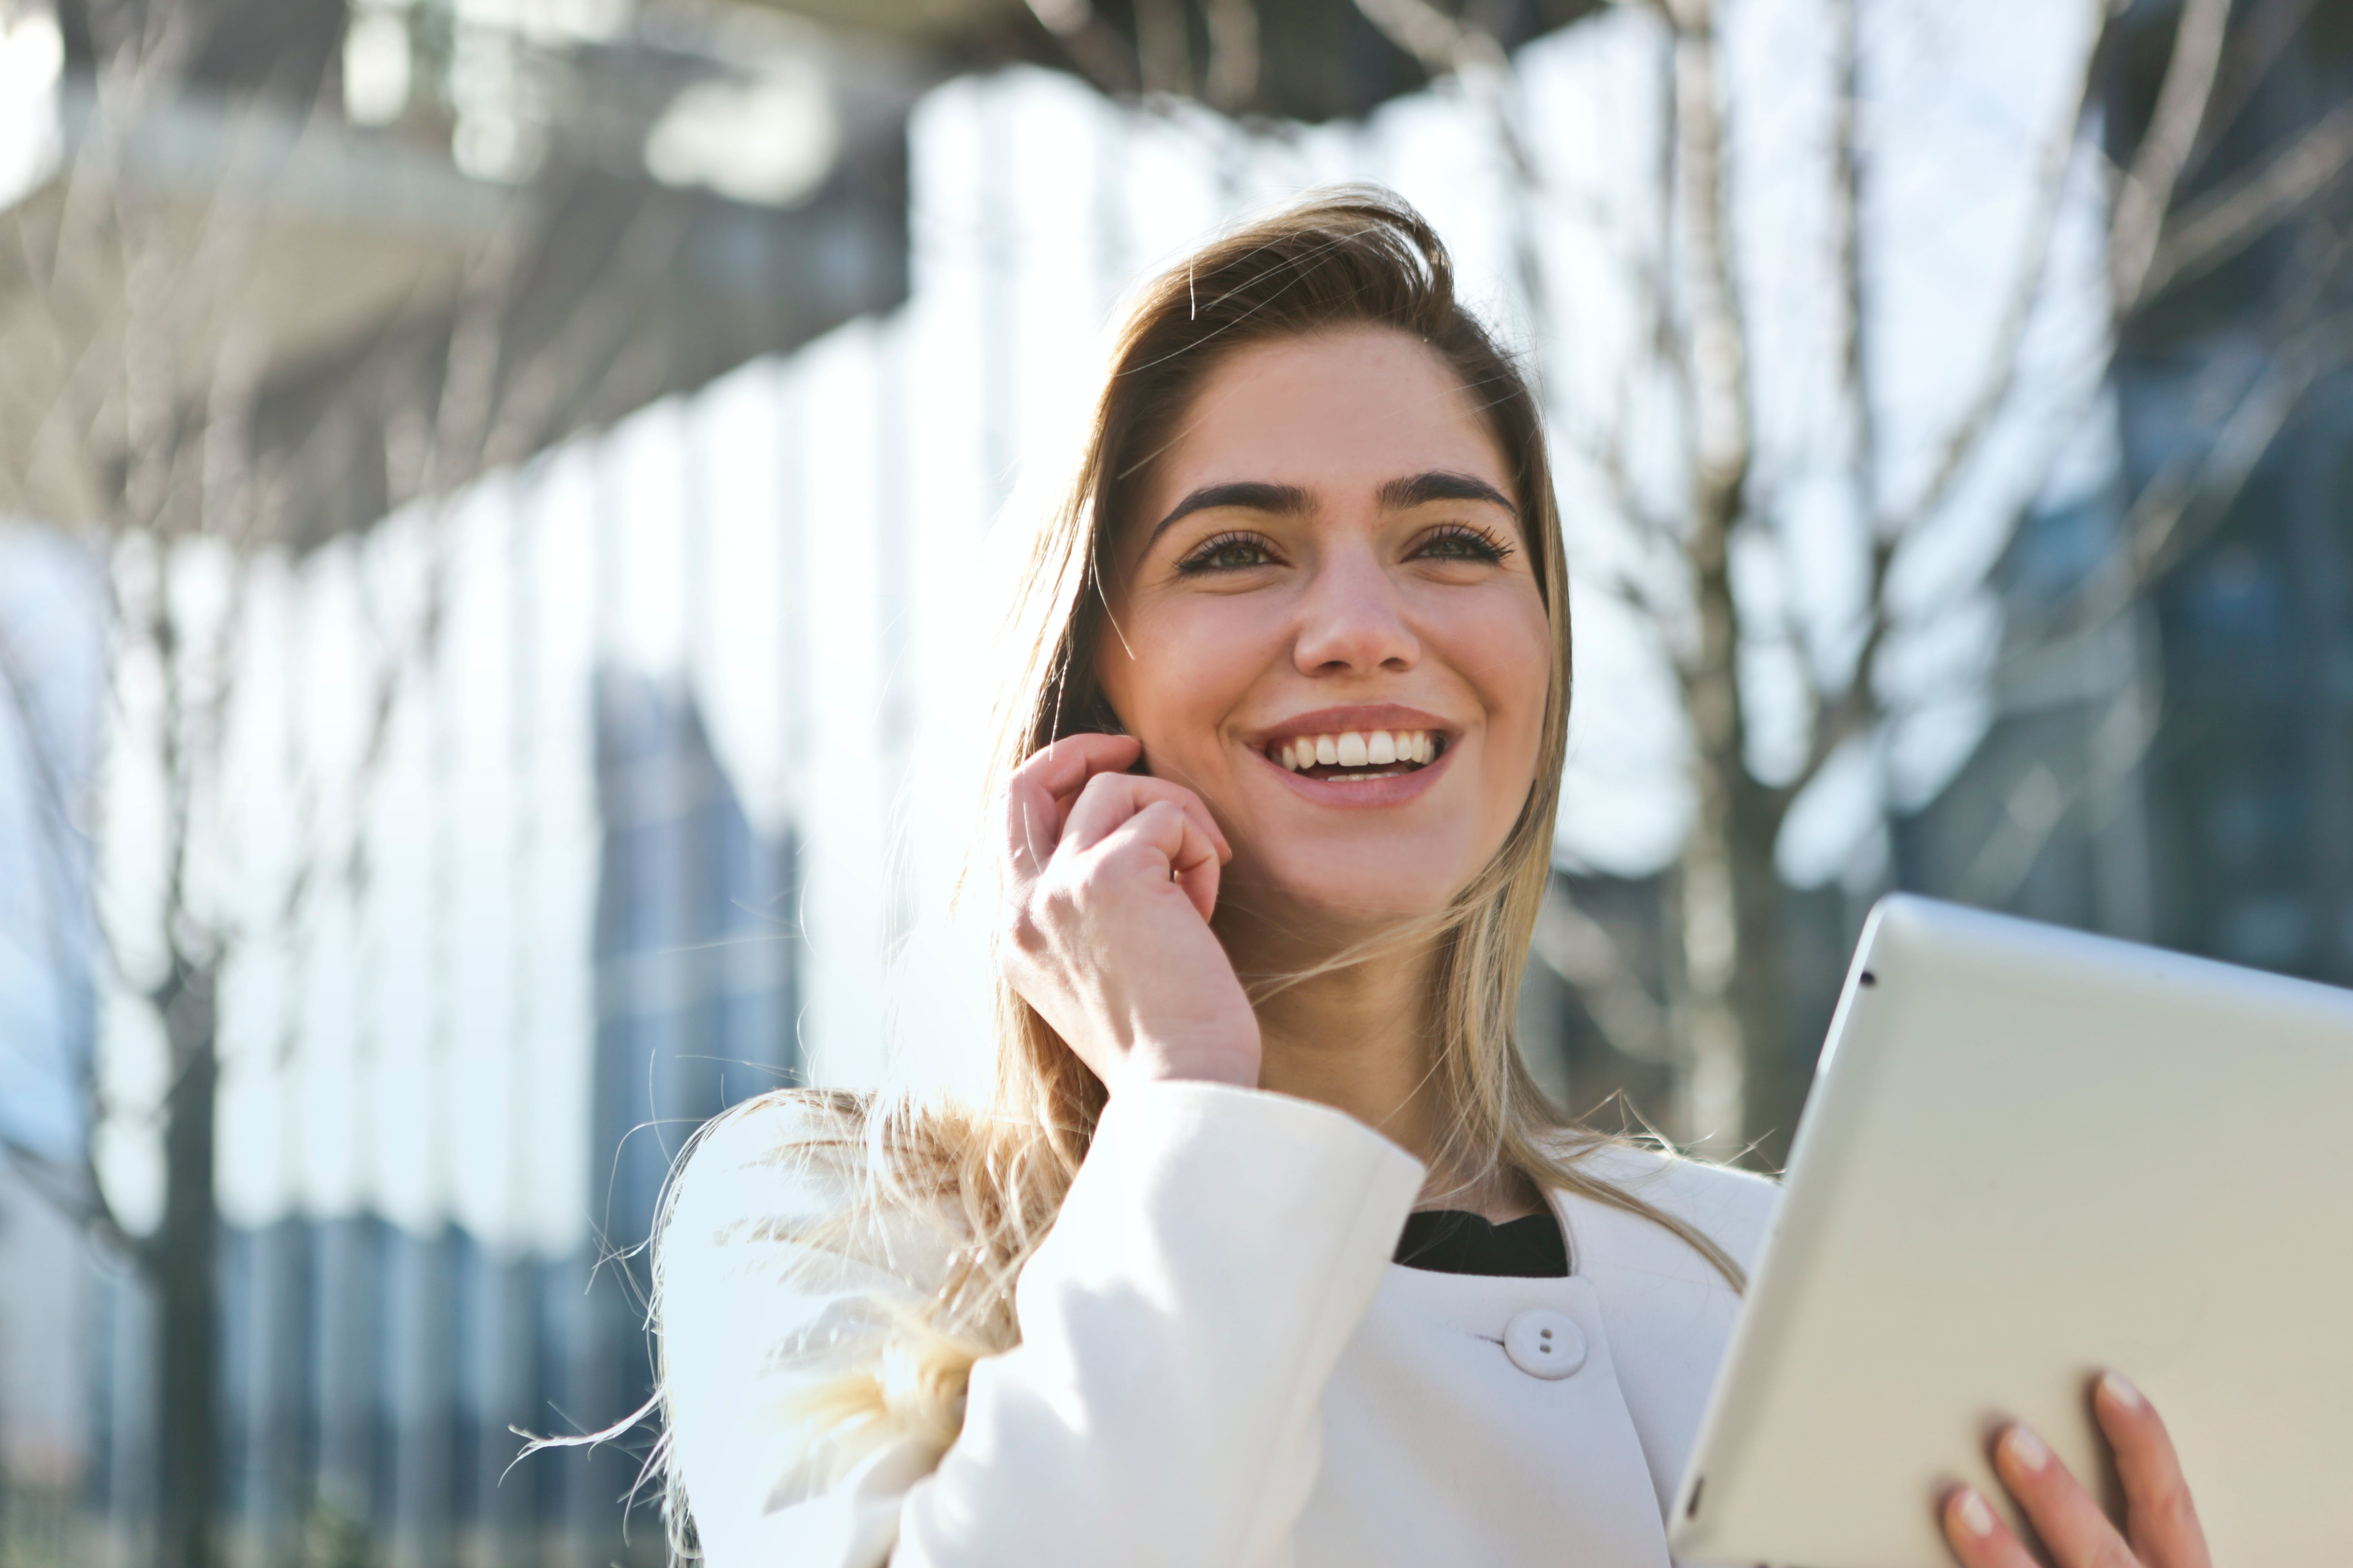
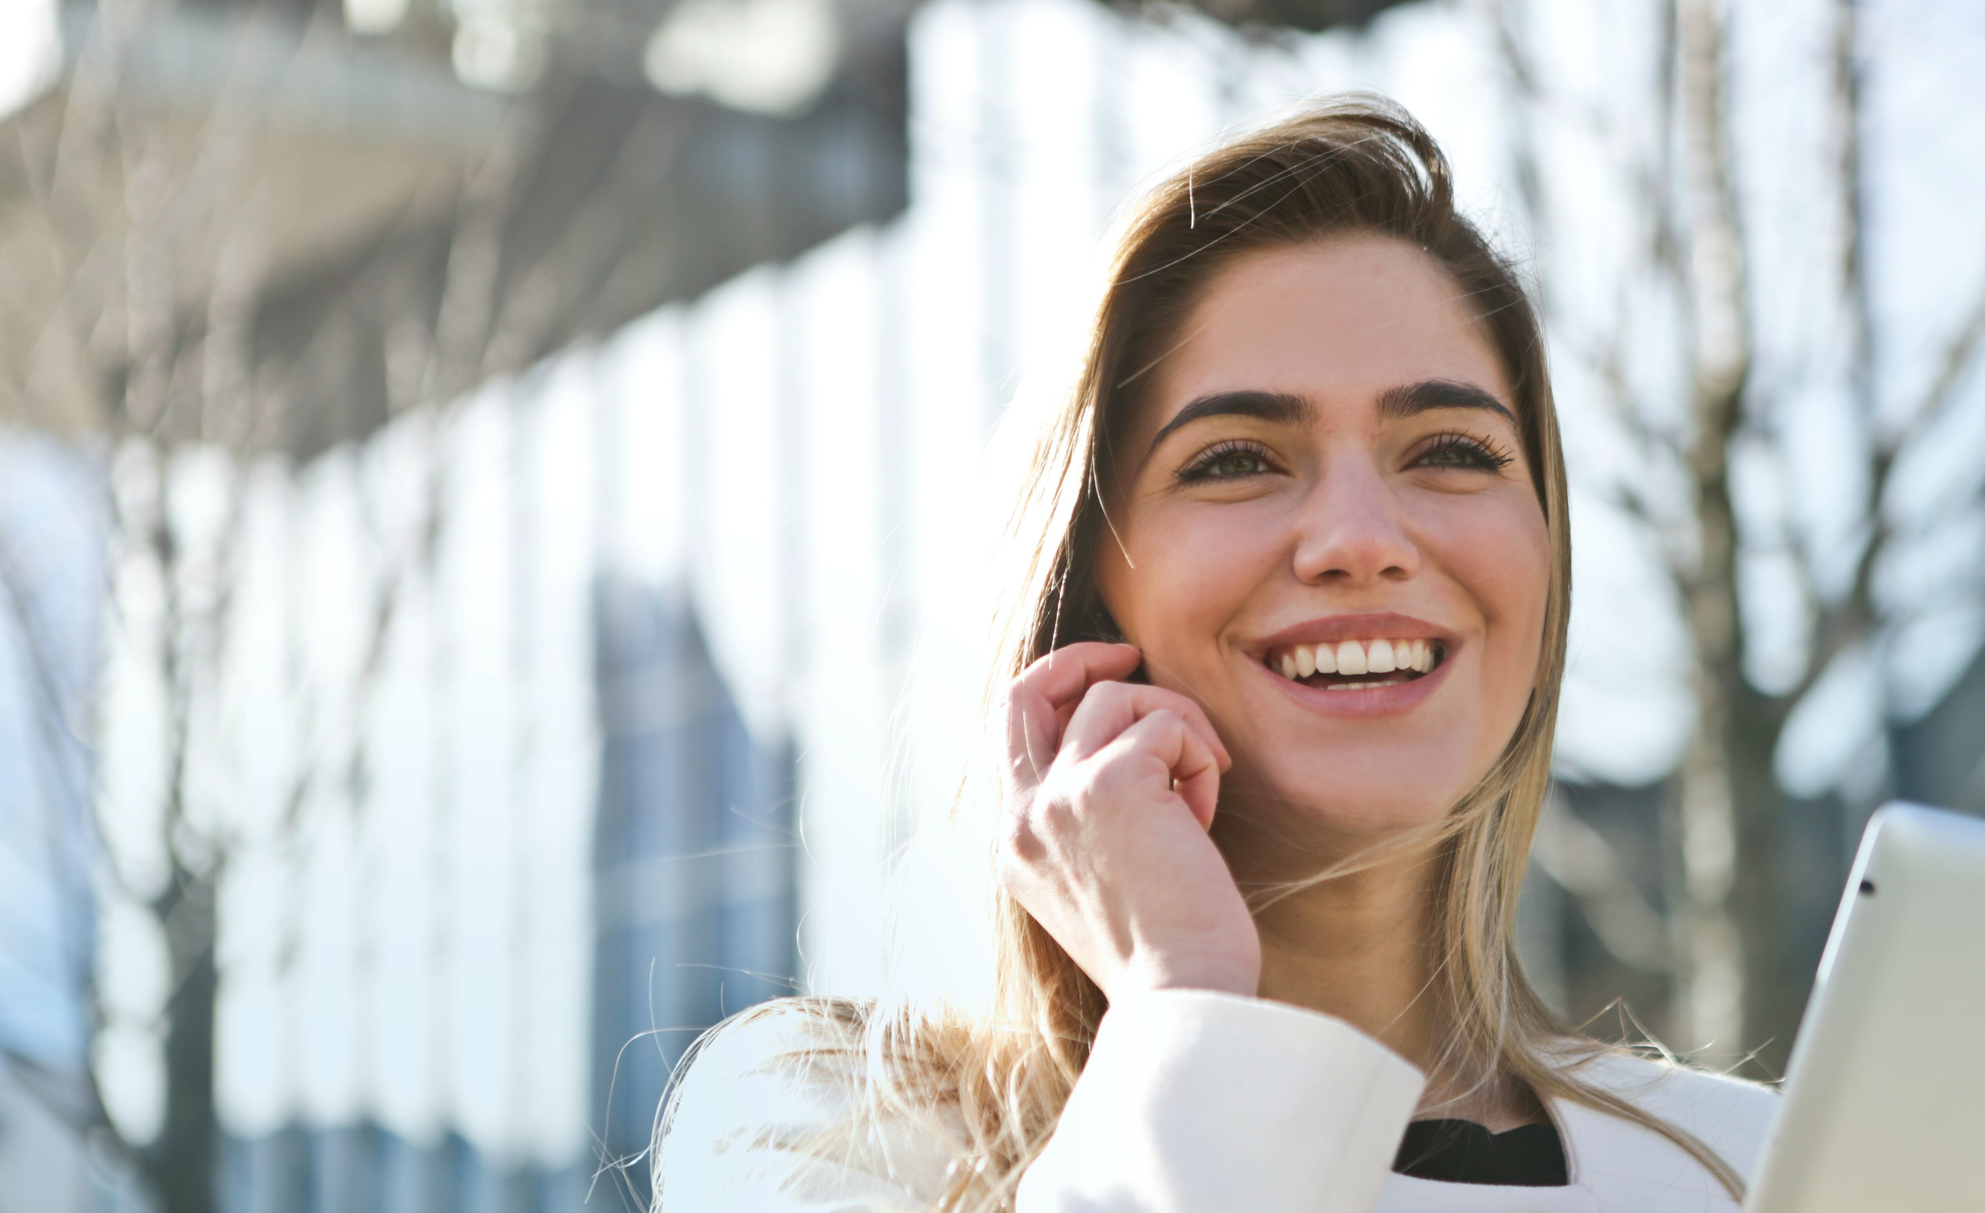
changed media queries for hero home

diff --git a/website/assets/css/index.css b/website/assets/css/index.css
@@ -10,7 +10,6 @@
   .hero.home {
     padding-left: 100px;
     padding-right: 50px;
-    height: 600px;
     width: 100%;
     background-image: url('../images/hero.jpg');
     background-repeat: no-repeat;
@@ -29,10 +28,12 @@
   }
 
   .banner-p {
-    font-size: 15px;
+    color: black;
+    font-size: 18px;
+    font-weight: 2000;
     padding-top: 20px;
     padding-bottom: 20px;
-  }
+    font-family: 'Lucida Sans', 'Lucida Sans Regular', 'Lucida Grande', 'Lucida Sans Unicode', Geneva, Verdana, sans-serif;   }
 
   .top {
     width: 80%;
@@ -588,13 +589,11 @@
 
   @media only screen and (max-width: 1131px) {
     .hero.home {
-      height: 630px;
     }
   }
 
   @media only screen and (max-width: 990px) {
     .hero.home {
-      height: 650px;
     }
 
     .vsTop {
@@ -791,7 +790,14 @@
     .howP {
       font-size: 14px;
     }
-  }
+    .hero.home{
+      padding-left: 50px;
+      padding-top: 50px;
+  
+    }
+.banner-home{
+  padding-top: 0px;
+}  }
 
   @media only screen and (max-width: 400px) {
     .howItWorks {
@@ -861,8 +867,9 @@
       max-width: 75%;
     }
 
-    .hero.home {
-      height: 700px;
+   .col-5.banner {
+
+width: 70%;
     }
   }
 
@@ -874,7 +881,7 @@
 
     thead th h2 {
       font-weight: 300;
-      font-size: 10px;
+      font-size: 12px;
       line-height: 1.2;
       color: var(--redColor);
     }
@@ -886,7 +893,7 @@
     th,
     td {
       font-family: inherit;
-      font-size: 8px;
+      font-size: 10px;
       line-height: 1.45;
       color: #444;
       height: 40px;

diff --git a/index.html b/index.html
@@ -167,7 +167,7 @@
   <section class="banner-area home">
     <div class="hero home">
       <div class="row align-items-center justify-align-center">
-        <div class="col-md-5 col-sm-6 banner">
+        <div class="col-5 banner">
           <div class="banner-home">
             <h1 class="banner-h1">
               Best Virtual Assistant for Your Business

diff --git a/website/assets/css/style.css b/website/assets/css/style.css
@@ -1159,6 +1159,7 @@ Responsive Css
   .go-top .active {
     top: 85%;
   }
+ 
 }
 
 @media only screen and (min-width: 768px) and (max-width: 991px) {
